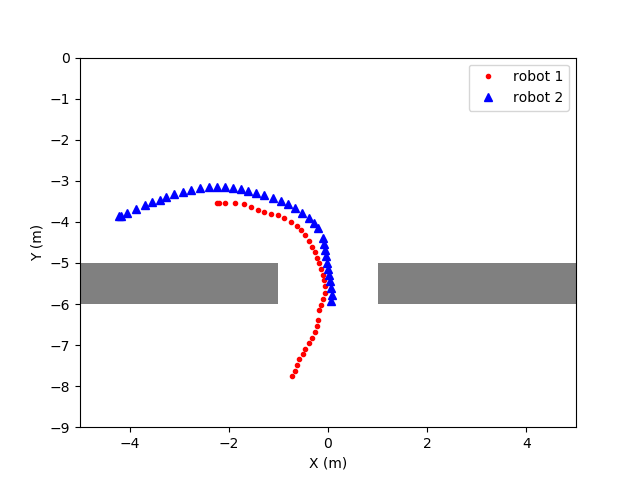
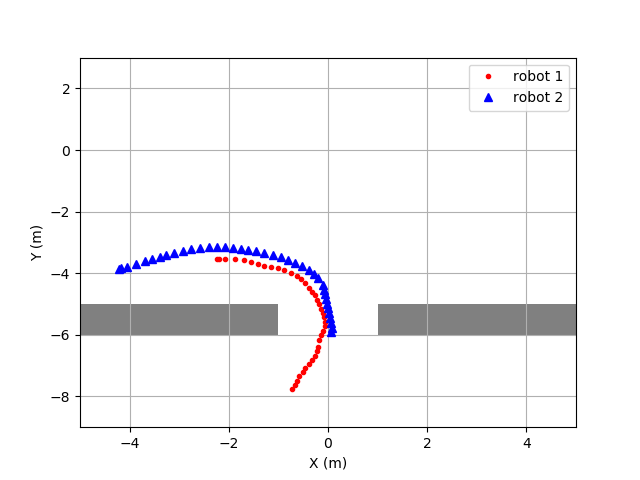
mod figures

diff --git a/loggers_control/scripts/draw_traj.py b/loggers_control/scripts/draw_traj.py
@@ -1,0 +1,40 @@
+"""
+Read in robot trajectories then plot 'em
+Author: LinZHanK (linzhank@gmail.com)
+"""
+from __future__ import absolute_import, division, print_function
+
+import sys
+import os
+import numpy as np
+from numpy import pi
+import matplotlib.pyplot as plt
+
+
+if __name__ == '__main__':
+    # specify init config
+    traj_dir = os.path.dirname(sys.path[0])+"/saved_models/double_escape/dqn/2019-12-31-17-43/validate_cases/5/"
+
+    # save and plot trajectories
+    # traj_0 = -np.asarray(traj_0)
+    # traj_1 = -np.asarray(traj_1)
+    traj_0 = np.load(os.path.join(traj_dir,'trajectory_0.npy'))
+    traj_1 = np.load(os.path.join(traj_dir,'trajectory_1.npy'))
+    # plot
+    # left_wall = plt.Rectangle((-5,5),4,1,facecolor="grey")
+    # right_wall = plt.Rectangle((1,5),4,1,facecolor="grey")
+    left_wall = plt.Rectangle((-5,-6),4,1,facecolor="grey")
+    right_wall = plt.Rectangle((1,-6),4,1,facecolor="grey")
+    fig, ax = plt.subplots()
+    ax.add_patch(left_wall)
+    ax.add_patch(right_wall)
+    ax.plot(traj_0[:,0], traj_0[:,1], 'r.', label='robot 1')
+    ax.plot(traj_1[:,0], traj_1[:,1], 'b^', label='robot 2')
+    ax.set_xlim(-5,5)
+    # ax.set_ylim(0,9)
+    ax.set_ylim(-9,3)
+    ax.set(xlabel='X (m)', ylabel='Y (m)')
+    ax.legend()
+    ax.grid()
+    plt.savefig(os.path.join(traj_dir,'traj.png'))
+    # plt.show()

diff --git a/loggers_control/scripts/double_escape_dqn_specified_eval.py b/loggers_control/scripts/double_escape_dqn_specified_eval.py
@@ -24,11 +24,11 @@ from agents.dqn import DQNAgent
 if __name__ == '__main__':
     # specify init config
     date_time = datetime.now().strftime("%Y-%m-%d-%H-%M")
-    # init_config = [3.25,-4,0,pi/2,pi/2]
+    init_config = [3.25,-4,0,pi/2,pi/2]
     # init_config = [2.5,-2.25,0.2*pi,pi/2,pi/2]
     # init_config = [0.3875,-1.69,-0.6*pi,0,0]
     # init_config = [-2.487,-1.735,-0.2*pi,pi/2,pi/2]
-    init_config = [-3.225,-3.7,-19*pi/20,pi/2,pi/2]
+    # init_config = [-3.225,-3.7,-19*pi/20,pi/2,pi/2]
     # instantiate env
     env = DoubleEscapeEnv()
     obs, info = env.reset(init_config)
